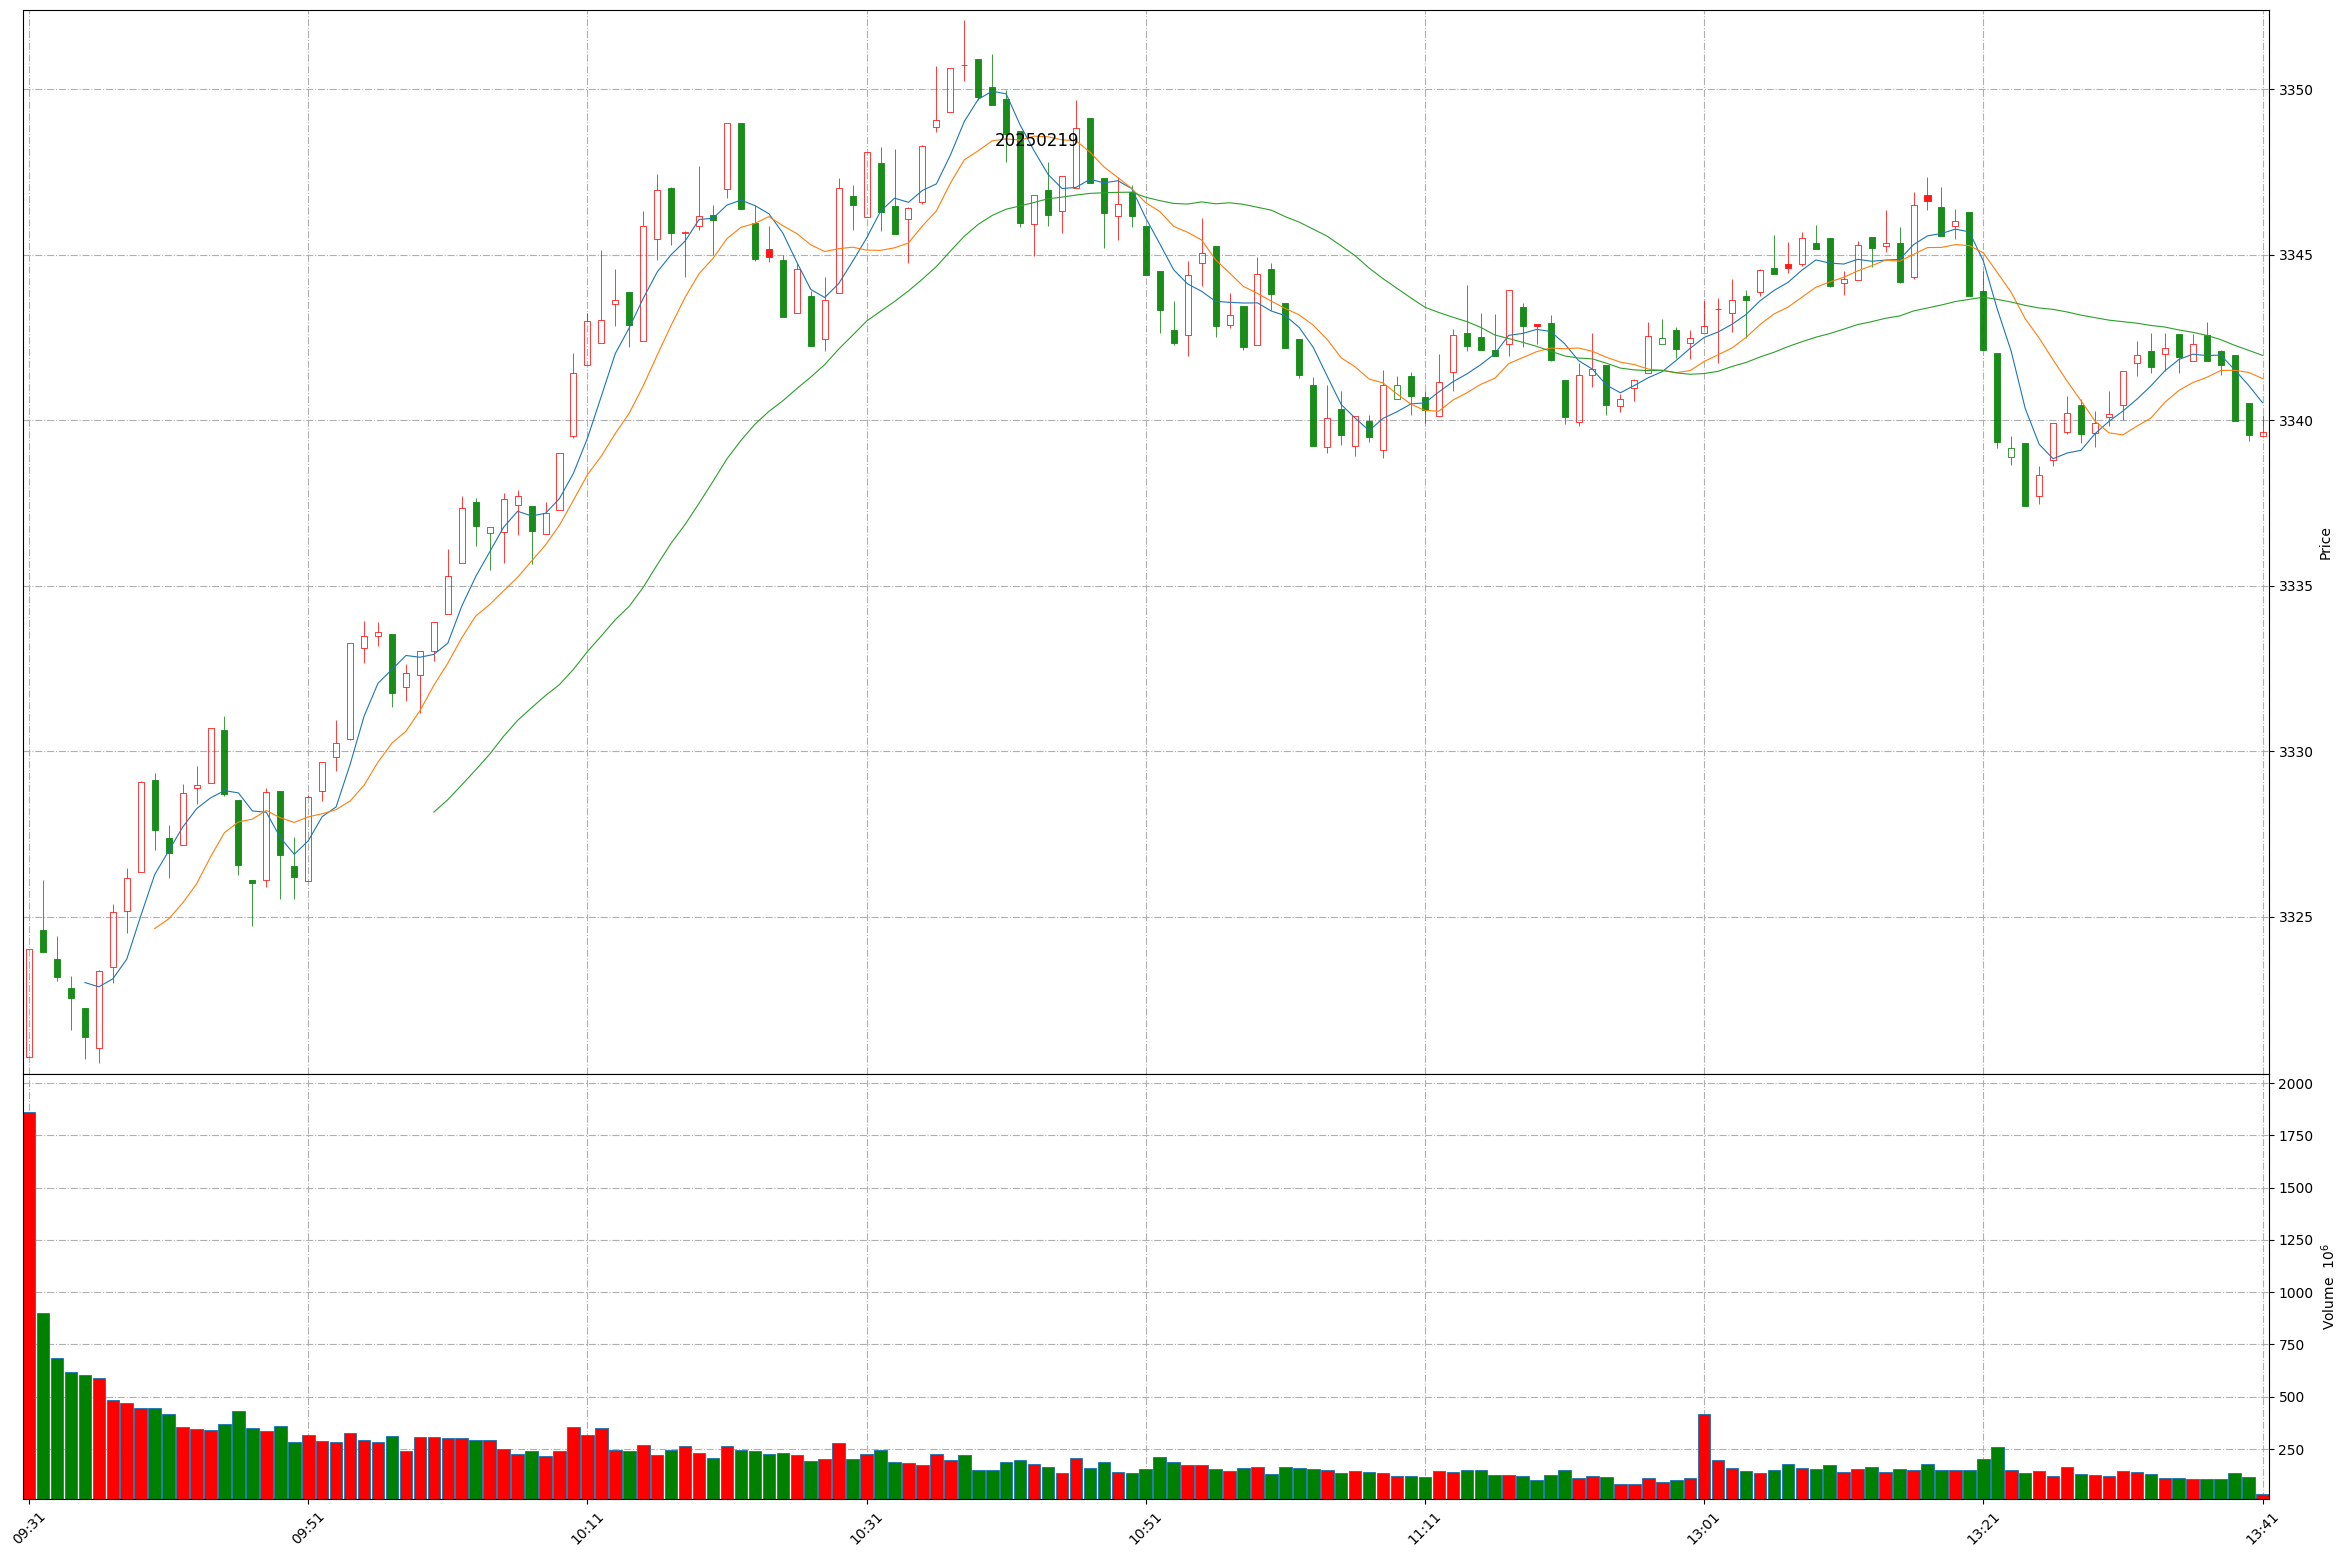
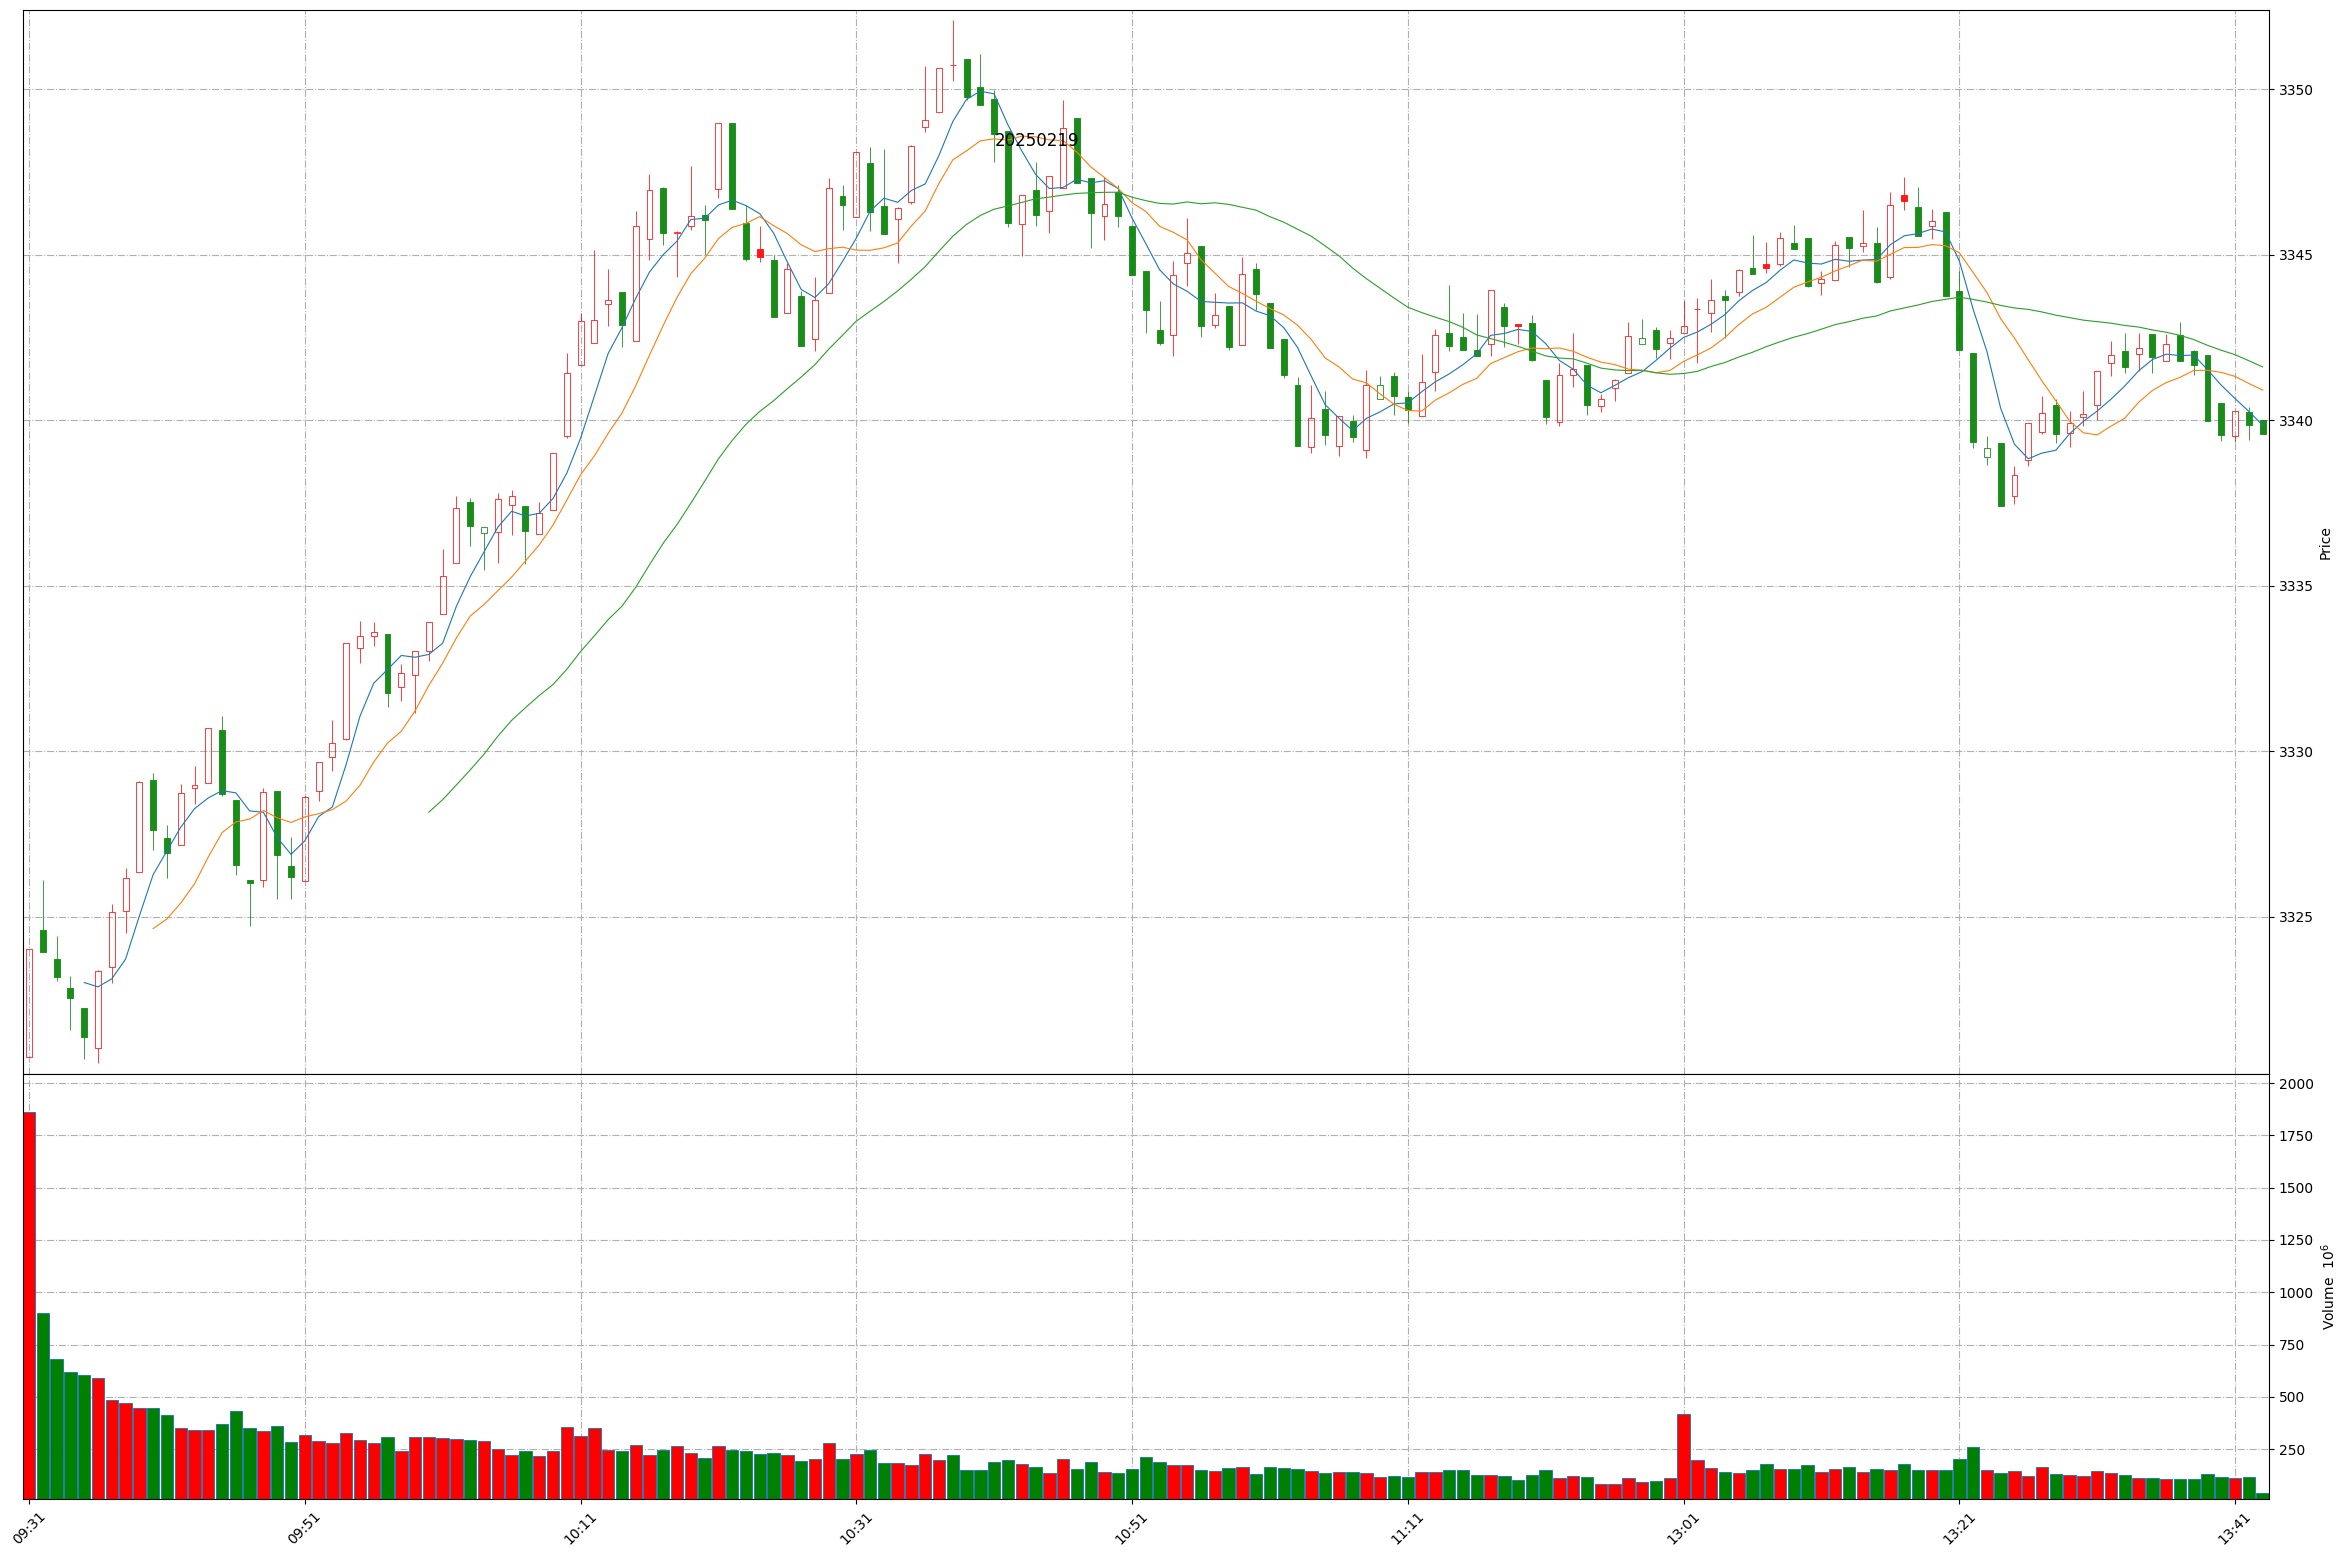
Github action update at 2025-02-19 13:42:38.

diff --git a/README.md b/README.md
@@ -1,11 +1,11 @@
 
 # Daily-A-share-market-quotes 每日 A 股指数（5min 更新）- 20250219
 
-### 上证指数 20250219 13:40
+### 上证指数 20250219 13:42
 ![](./fig/2025/2/20250219-sh000001.png)
 
-### 深证成指 20250219 13:40
+### 深证成指 20250219 13:42
 ![](./fig/2025/2/20250219-sz399001.png)
 
-### 北证50 20250219 13:40
+### 北证50 20250219 13:42
 ![](./fig/2025/2/20250219-bj899050.png)
